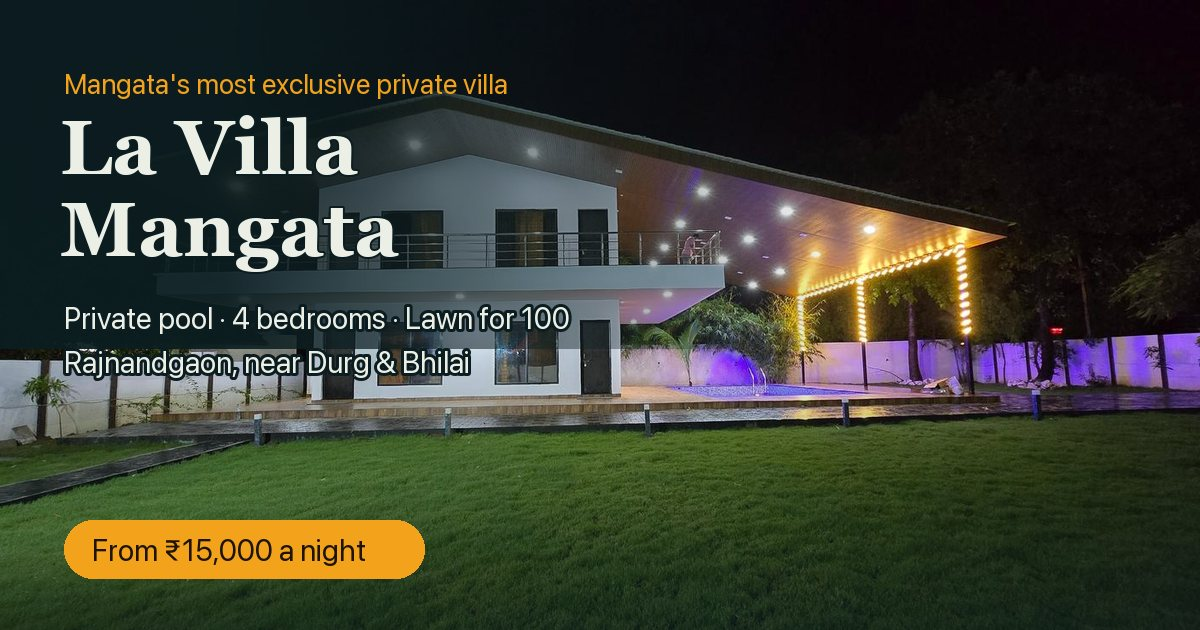
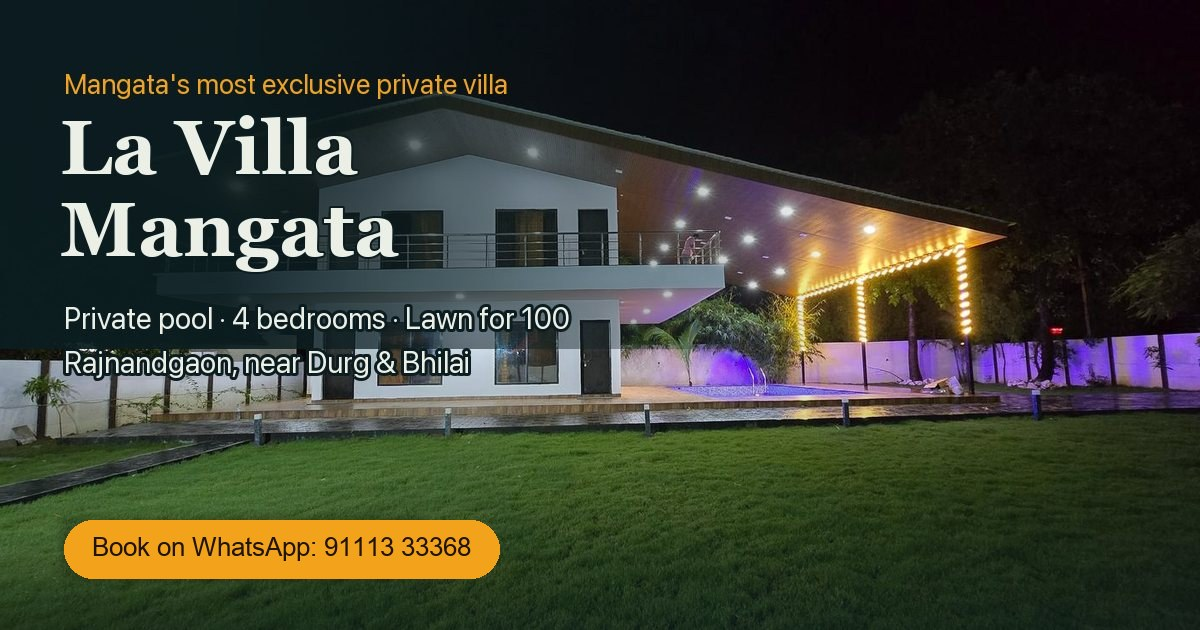
Remove all prices from the site

Changed region(s): [[0.0617, 0.8143, 0.4317, 0.9349]]

diff --git a/index.html b/index.html
@@ -4,7 +4,7 @@
 <meta charset="utf-8">
 <meta name="viewport" content="width=device-width, initial-scale=1, viewport-fit=cover">
 <title>La Villa Mangata | Private Pool Resort near Bhilai &amp; Durg</title>
-<meta name="description" content="Private pool villa and farmhouse-style resort in Mangata, Rajnandgaon, near Bhilai and Durg. 4 bedrooms, lawn for 100. ₹15,000/night for 12.">
+<meta name="description" content="Private pool villa and farmhouse-style resort in Mangata, Rajnandgaon, near Bhilai and Durg. 4 bedrooms, lawn for 100. The whole villa for up to 12 guests.">
 <link rel="canonical" href="https://lavillamangata.in/">
 <meta name="google-site-verification" content="t191POgJ0YEOPe0bf7RH7o9iVbBwuTmdP5sB8EsKm30">
 <meta name="robots" content="index, follow, max-image-preview:large, max-snippet:-1, max-video-preview:-1">
@@ -18,7 +18,7 @@
 <meta property="og:locale" content="en_IN">
 <meta property="og:site_name" content="La Villa Mangata">
 <meta property="og:title" content="La Villa Mangata – Private Pool Resort near Bhilai &amp; Durg">
-<meta property="og:description" content="Mangata's most exclusive private villa: 4 bedrooms, a private pool and a lawn for 100. The whole villa from ₹15,000 a night.">
+<meta property="og:description" content="Mangata's most exclusive private villa: 4 bedrooms, a private pool and a lawn for 100. The whole villa is yours.">
 <meta property="og:image" content="https://lavillamangata.in/img/og.jpg">
 <meta property="og:image:width" content="1200">
 <meta property="og:image:height" content="630">
@@ -26,7 +26,7 @@
 <meta property="og:url" content="https://lavillamangata.in/">
 <meta name="twitter:card" content="summary_large_image">
 <meta name="twitter:title" content="La Villa Mangata – Private Pool Resort near Bhilai &amp; Durg">
-<meta name="twitter:description" content="Mangata's most exclusive private villa: 4 bedrooms, a private pool and a lawn for 100. The whole villa from ₹15,000 a night.">
+<meta name="twitter:description" content="Mangata's most exclusive private villa: 4 bedrooms, a private pool and a lawn for 100. The whole villa is yours.">
 <meta name="twitter:image" content="https://lavillamangata.in/img/og.jpg">
 <meta name="twitter:image:alt" content="La Villa Mangata lit up at night, a private pool villa in Mangata, Chhattisgarh">
 <link rel="manifest" href="manifest.webmanifest">
@@ -139,8 +139,6 @@
         "Bhilai",
         "Raipur"
       ],
-      "priceRange": "₹15,000 per night",
-      "currenciesAccepted": "INR",
       "checkinTime": "12:00",
       "checkoutTime": "10:00",
       "numberOfRooms": 4,
@@ -321,15 +319,6 @@
           "value": true
         }
       ],
-      "makesOffer": {
-        "@type": "Offer",
-        "name": "Whole villa, up to 12 guests",
-        "price": 15000,
-        "priceCurrency": "INR",
-        "unitCode": "DAY",
-        "description": "Per night for the entire villa. Extra guests ₹1,000 each per night.",
-        "url": "https://lavillamangata.in/"
-      },
       "containsPlace": {
         "@id": "https://lavillamangata.in/#lawn"
       },
@@ -365,10 +354,10 @@
       "mainEntity": [
         {
           "@type": "Question",
-          "name": "What does La Villa Mangata cost per night and per person?",
+          "name": "How much does La Villa Mangata cost per night or per person?",
           "acceptedAnswer": {
             "@type": "Answer",
-            "text": "₹15,000 a night for the whole villa and up to 12 guests, about ₹1,250 per person when 12 share. Couples and families pay the same whole-villa price. Each extra guest is ₹1,000 a night; meals, the floating breakfast and the projector cost extra."
+            "text": "Rates depend on your dates, group size and any event, so we share a quote on WhatsApp. Send your dates to +91 91113 33368. You always get the whole villa for your group; meals, the floating breakfast and the projector are extra."
           }
         },
         {
@@ -652,7 +641,7 @@
           <div><span class="mono" data-count="80">80</span><span>guests seated</span></div>
         </div>
         <ul class="events__list" data-reveal>
-          <li>Catering from ₹400 per plate veg and ₹500 non-veg (taxes extra), or bring your own caterer</li>
+          <li>Catering available, or bring your own caterer</li>
           <li>Outside decorators welcome</li>
           <li>Bring your own DJ; there's no in-house DJ</li>
           <li>Stay the night in the villa after the event</li>
@@ -683,11 +672,11 @@
       </section>
     </div>
 
-    <aside class="listing__aside" aria-label="Price and booking">
+    <aside class="listing__aside" aria-label="Booking">
       <div class="book-card glass">
-        <p class="book-card__price"><span class="mono">₹15,000</span> night</p>
+        <p class="book-card__lead"><span class="mono">Whole villa</span> up to 12 guests</p>
         <p class="book-card__rating"><span class="stars" aria-hidden="true">★</span> 4.9 · 18 reviews</p>
-        <p class="book-card__note">Whole villa, up to 12 guests. About ₹1,250 per person for 12.</p>
+        <p class="book-card__note">Rates on request. Send your dates and we reply with a quote on WhatsApp.</p>
         <button class="btn btn--primary btn--wide tap" type="button" data-open-sheet data-magnetic>Check availability</button>
         <p class="book-card__small">Nothing is charged here. We confirm on WhatsApp.</p>
       </div>
@@ -723,7 +712,7 @@
           <ul>
             <li>Check-in from 12:00 pm</li>
             <li>Check-out by 10:00 am</li>
-            <li>Up to 12 guests overnight; extra guests ₹1,000 each per night</li>
+            <li>Up to 12 guests overnight; more guests by arrangement</li>
             <li>Primary guest must be 18 or older</li>
             <li>Photo ID for every adult: Aadhaar, passport, driving licence or other government ID</li>
             <li>Unmarried couples welcome; local IDs accepted</li>
@@ -765,7 +754,7 @@
     <div class="wrap">
       <h2 id="faq-title" data-reveal data-scramble>Questions guests ask</h2>
       <div class="faq__list">
-        <details data-reveal><summary>What does La Villa Mangata cost per night and per person?</summary><p>₹15,000 a night for the whole villa and up to 12 guests, about ₹1,250 per person when 12 share. Couples and families pay the same whole-villa price. Each extra guest is ₹1,000 a night; meals, the floating breakfast and the projector cost extra.</p></details>
+        <details data-reveal><summary>How much does La Villa Mangata cost per night or per person?</summary><p>Rates depend on your dates, group size and any event, so we share a quote on WhatsApp. Send your dates to +91 91113 33368. You always get the whole villa for your group; meals, the floating breakfast and the projector are extra.</p></details>
         <details data-reveal><summary>Is it a farmhouse with a private swimming pool near Bhilai and Durg?</summary><p>Yes. It's a private villa on a large farmhouse-style lawn with its own swimming pool, about 25 km from Durg and close to Bhilai. One group books it at a time, so the pool, lawn and gazebo are never shared.</p></details>
         <details data-reveal><summary>Can we host a pool party, birthday party, haldi or mehendi?</summary><p>Yes. The lawn holds up to 100 guests standing or 80 seated, and you can bring your own decorator, caterer and DJ.</p></details>
         <details data-reveal><summary>Is non-veg food allowed?</summary><p>Yes. Both veg and non-veg food are allowed. Meals from the fixed menu cost extra, and for events you can bring your own caterer.</p></details>
@@ -899,16 +888,9 @@
 
       <div class="field"><label for="sheet-name">Your name</label><input id="sheet-name" type="text" autocomplete="name"></div>
 
-      <div class="breakdown" aria-live="polite">
-        <p><span id="bd-nights-label">Villa, 0 nights</span><span class="mono" id="bd-villa">₹0</span></p>
-        <p id="bd-extra-row" hidden><span id="bd-extra-label">Extra guests</span><span class="mono" id="bd-extra">₹0</span></p>
-        <p class="breakdown__total"><span>Estimated total</span><span class="mono" id="bd-total">₹0</span></p>
-        <p class="breakdown__pp mono" id="bd-pp">Pick dates to see the price</p>
-      </div>
-
       <p class="form-error" id="sheet-error" role="alert"></p>
-      <button class="btn btn--primary btn--wide tap" type="button" id="sheet-send">Send request on WhatsApp</button>
-      <p class="note">Nothing is charged here. We confirm availability and the advance on WhatsApp.</p>
+      <button class="btn btn--primary btn--wide tap" type="button" id="sheet-send">Ask for a quote on WhatsApp</button>
+      <p class="note">Nothing is charged here. We reply with a quote and confirm availability on WhatsApp.</p>
     </div>
   </div>
 </div>

diff --git a/js/booking.js b/js/booking.js
@@ -1,12 +1,9 @@
-/* App-style booking: bottom sheet with a range calendar, live price breakdown, haptics,
-   and the "install as app" prompt. Booked dates come from data/availability.json once the owner fills it. */
+/* App-style booking: bottom sheet with a range calendar, haptics and a WhatsApp quote request,
+   plus the "install as app" prompt. Booked dates come from data/availability.json once the owner fills it. */
 (function () {
   'use strict';
 
   var WA = 'https://wa.me/919111333368';
-  var RATE = 15000;
-  var EXTRA = 1000;            // per extra guest, per night, above 12
-  var BASE_GUESTS = 12;
   var MAX_NIGHTS = 14;
   var $ = function (id) { return document.getElementById(id); };
   var sheet = $('sheet');
@@ -14,7 +11,6 @@
   var panel = sheet.querySelector('.sheet__panel');
   var reduceMotion = window.matchMedia('(prefers-reduced-motion: reduce)').matches;
   var haptic = function (ms) { if (navigator.vibrate) { try { navigator.vibrate(ms || 8); } catch (e) {} } };
-  var inr = function (n) { return '₹' + Math.round(n).toLocaleString('en-IN'); };
   var pad = function (n) { return (n < 10 ? '0' : '') + n; };
   var key = function (d) { return d.getFullYear() + '-' + pad(d.getMonth() + 1) + '-' + pad(d.getDate()); };
   var MONTHS = ['January', 'February', 'March', 'April', 'May', 'June', 'July', 'August', 'September', 'October', 'November', 'December'];
@@ -42,7 +38,6 @@
     requestAnimationFrame(function () { sheet.classList.add('is-open'); panel.focus({ preventScroll: true }); });
     haptic(10);
     renderCal();
-    renderPrice(true);
   }
   function close() {
     sheet.classList.remove('is-open');
@@ -141,7 +136,6 @@
       haptic([8, 40, 12]);
     }
     renderCal();
-    renderPrice();
   });
   $('cal-prev').addEventListener('click', function () { view.setMonth(view.getMonth() - 1); haptic(6); renderCal(); });
   $('cal-next').addEventListener('click', function () { view.setMonth(view.getMonth() + 1); haptic(6); renderCal(); });
@@ -162,39 +156,10 @@
     $('sg-down').disabled = guests <= 1;
     $('sg-up').disabled = guests >= 30;
   }
-  $('sg-down').addEventListener('click', function () { if (guests > 1) { guests--; haptic(6); renderGuests(); renderPrice(); } });
-  $('sg-up').addEventListener('click', function () { if (guests < 30) { guests++; haptic(6); renderGuests(); renderPrice(); } });
+  $('sg-down').addEventListener('click', function () { if (guests > 1) { guests--; haptic(6); renderGuests(); } });
+  $('sg-up').addEventListener('click', function () { if (guests < 30) { guests++; haptic(6); renderGuests(); } });
   renderGuests();
   sheet.querySelectorAll('.chips input').forEach(function (r) { r.addEventListener('change', function () { haptic(6); }); });
-
-  /* Price with a counting animation */
-  var shown = 0, raf = null;
-  function animateTo(el, target) {
-    if (raf) cancelAnimationFrame(raf);
-    if (reduceMotion) { el.textContent = inr(target); shown = target; return; }
-    var from = shown, t0 = performance.now(), dur = 520;
-    (function step(t) {
-      var p = Math.min(1, (t - t0) / dur);
-      var e = 1 - Math.pow(1 - p, 3);
-      shown = from + (target - from) * e;
-      el.textContent = inr(shown);
-      if (p < 1) raf = requestAnimationFrame(step);
-    })(t0);
-  }
-  function renderPrice(instant) {
-    var n = nights();
-    var extraGuests = Math.max(0, guests - BASE_GUESTS);
-    var villa = RATE * n;
-    var extra = EXTRA * extraGuests * n;
-    var total = villa + extra;
-    $('bd-nights-label').textContent = 'Villa, ' + n + (n === 1 ? ' night' : ' nights') + ' × ' + inr(RATE);
-    $('bd-villa').textContent = inr(villa);
-    $('bd-extra-row').hidden = extraGuests === 0;
-    $('bd-extra-label').textContent = extraGuests + ' extra ' + (extraGuests === 1 ? 'guest' : 'guests') + ' × ' + inr(EXTRA) + ' × ' + n;
-    $('bd-extra').textContent = inr(extra);
-    if (instant) { shown = total; $('bd-total').textContent = inr(total); } else animateTo($('bd-total'), total);
-    $('bd-pp').textContent = n ? inr(total / guests) + ' per person for the stay' : 'Pick dates to see the price';
-  }
 
   /* Send */
   $('sheet-send').addEventListener('click', function () {
@@ -205,13 +170,11 @@
     err.textContent = '';
     var occasion = (sheet.querySelector('.chips input:checked') || {}).value || 'Weekend stay';
     var n = nights();
-    var total = RATE * n + EXTRA * Math.max(0, guests - BASE_GUESTS) * n;
-    var msg = 'Hi, I would like to book La Villa Mangata.\n' +
+    var msg = 'Hi, I would like a quote for La Villa Mangata.\n' +
       'Check-in: ' + fmt(checkin) + ' ' + checkin.getFullYear() + '\n' +
       'Check-out: ' + fmt(checkout) + ' ' + checkout.getFullYear() + ' (' + n + (n === 1 ? ' night' : ' nights') + ')\n' +
       'Guests: ' + guests + '\n' +
       'Occasion: ' + occasion + '\n' +
-      'Estimated total: ' + inr(total) + '\n' +
       'Name: ' + name;
     haptic([10, 30, 10]);
     window.open(WA + '?text=' + encodeURIComponent(msg), '_blank', 'noopener');
@@ -235,5 +198,4 @@
   if (isIOS && !standalone) $('install-ios').hidden = false;
 
   renderCal();
-  renderPrice(true);
 })();

diff --git a/css/styles.css b/css/styles.css
@@ -152,12 +152,6 @@ section[id] { scroll-margin-top: 12px; }
 .hero__hindi { font-family: var(--serif); font-size: clamp(1.4rem, 1rem + 2vw, 2.4rem); color: var(--moon-dim); margin-top: 10px; line-height: 1.25; }
 .hero__lead { margin-top: 18px; font-size: clamp(1.05rem, 0.98rem + 0.4vw, 1.25rem); max-width: 30ch; color: var(--moon); }
 .hero__actions { display: flex; flex-wrap: wrap; gap: 12px; margin-top: 26px; }
-.price-chip {
-  display: inline-flex; flex-direction: column; justify-content: center;
-  min-height: 54px; padding: 6px 20px; border-radius: 999px; text-decoration: none; line-height: 1.15;
-}
-.price-chip .mono { font-size: 1.05rem; font-weight: 500; }
-.price-chip span:last-child { font-size: 0.8rem; color: var(--moon-dim); }
 .hero__rating {
   position: absolute; top: calc(70px + var(--safe-top)); left: var(--gutter);
   display: flex; align-items: center; gap: 12px; min-height: 52px; padding: 6px 16px 6px 8px;
@@ -395,13 +389,6 @@ section[id] { scroll-margin-top: 12px; }
 }
 .chips input:checked + span { background: rgba(242, 163, 27, 0.16); border-color: var(--marigold); color: var(--moon); }
 .chips input:focus-visible + span { outline: 3px solid var(--marigold); outline-offset: 2px; }
-
-.breakdown { border: 1px solid var(--line); border-radius: 18px; padding: 14px 16px; background: rgba(0, 0, 0, 0.15); }
-.breakdown p { display: flex; justify-content: space-between; gap: 12px; padding: 6px 0; color: var(--moon-dim); font-size: 0.92rem; }
-.breakdown p[hidden] { display: none; }
-.breakdown__total { border-top: 1px solid var(--line); margin-top: 6px; padding-top: 12px !important; color: var(--moon) !important; font-weight: 600; }
-.breakdown__total .mono { font-size: 1.6rem; color: var(--marigold); font-weight: 500; }
-.breakdown__pp { justify-content: flex-end !important; font-size: 0.8rem !important; color: var(--moon-faint) !important; padding-top: 0 !important; }
 
 .foot__app { display: grid; gap: 8px; align-content: start; }
 

diff --git a/css/listing.css b/css/listing.css
@@ -1,4 +1,4 @@
-/* Listing layout: Airbnb-style sections, sticky price card, amenities modal,
+/* Listing layout: Airbnb-style sections, sticky booking card, amenities modal,
    platform chooser, FAQ and footer socials. Loaded after styles.css. */
 
 /* ---------- Hero additions ---------- */
@@ -147,10 +147,10 @@
   .quotes { display: grid; grid-template-columns: repeat(2, minmax(0, 1fr)); gap: 14px; overflow: visible; margin-inline: 0; padding: 0; }
 }
 
-/* ---------- Sticky price card (desktop) ---------- */
+/* ---------- Sticky booking card (desktop) ---------- */
 .book-card { border-radius: 24px; padding: 24px; box-shadow: inset 0 1px 0 rgba(255, 255, 255, 0.06), 0 30px 60px -24px rgba(0, 0, 0, 0.7); }
-.book-card__price { color: var(--moon-dim); font-size: 1.05rem; }
-.book-card__price .mono { font-size: 1.9rem; color: var(--moon); font-weight: 500; margin-right: 4px; }
+.book-card__lead { color: var(--moon-dim); font-size: 1.05rem; }
+.book-card__lead .mono { display: block; font-size: 1.9rem; color: var(--moon); font-weight: 500; }
 .book-card__rating { margin-top: 4px; font-size: 0.92rem; color: var(--moon-dim); }
 .book-card__rating .stars { letter-spacing: 0; font-size: 0.95rem; }
 .book-card__note { margin: 16px 0 18px; padding: 12px 14px; border: 1px solid var(--line); border-radius: 14px; color: var(--moon-dim); font-size: 0.92rem; }

diff --git a/sw.js b/sw.js
@@ -1,6 +1,6 @@
 /* Offline support: pages are fetched fresh when online (falling back to the cached copy),
    static assets are served from cache and refreshed in the background. */
-const VERSION = 'lvm-v6';
+const VERSION = 'lvm-v7';
 const SHELL = [
   './', 'index.html', 'css/styles.css', 'css/listing.css', 'css/gallery.css',
   'js/main.js', 'js/water.js', 'js/hud.js', 'js/booking.js', 'js/gallery.js', 'js/listing.js', 'js/motion.js',
